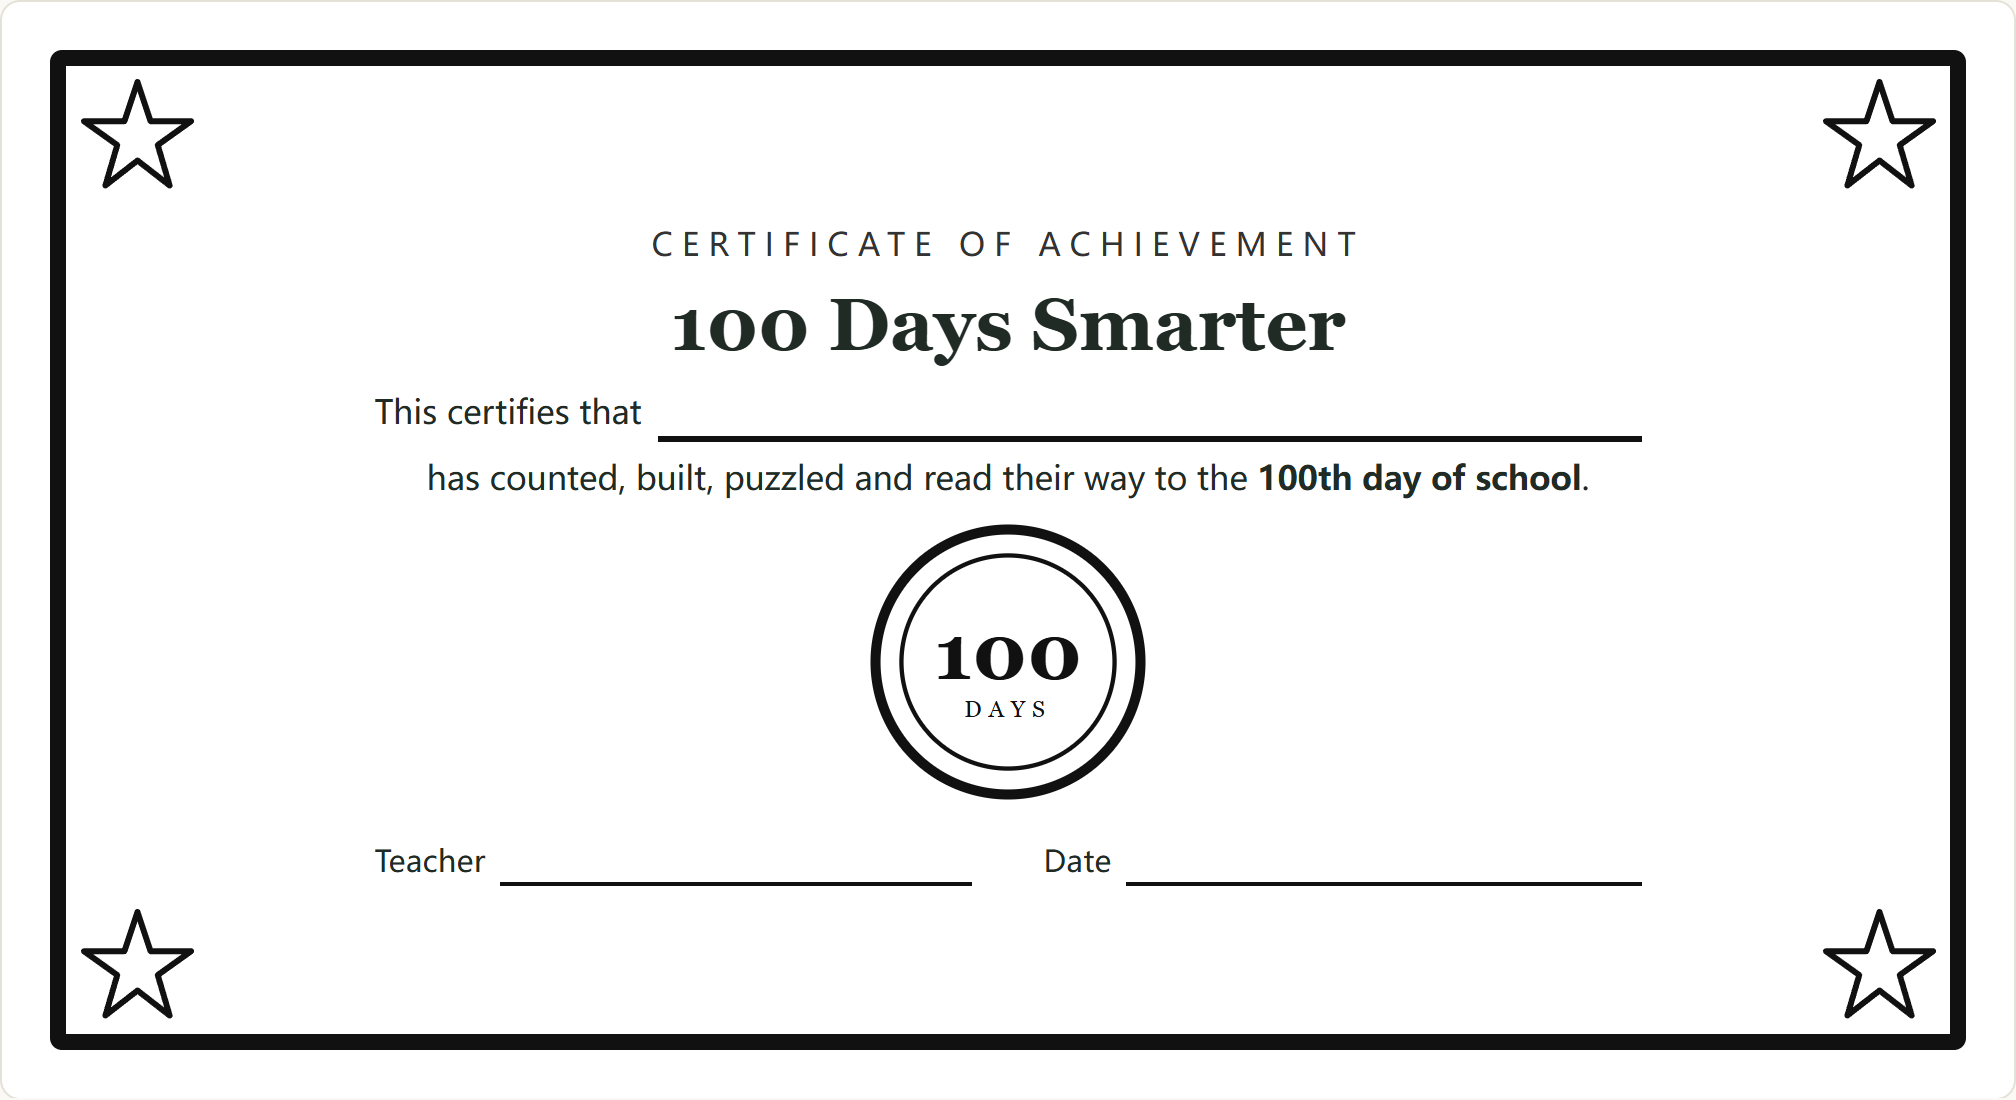
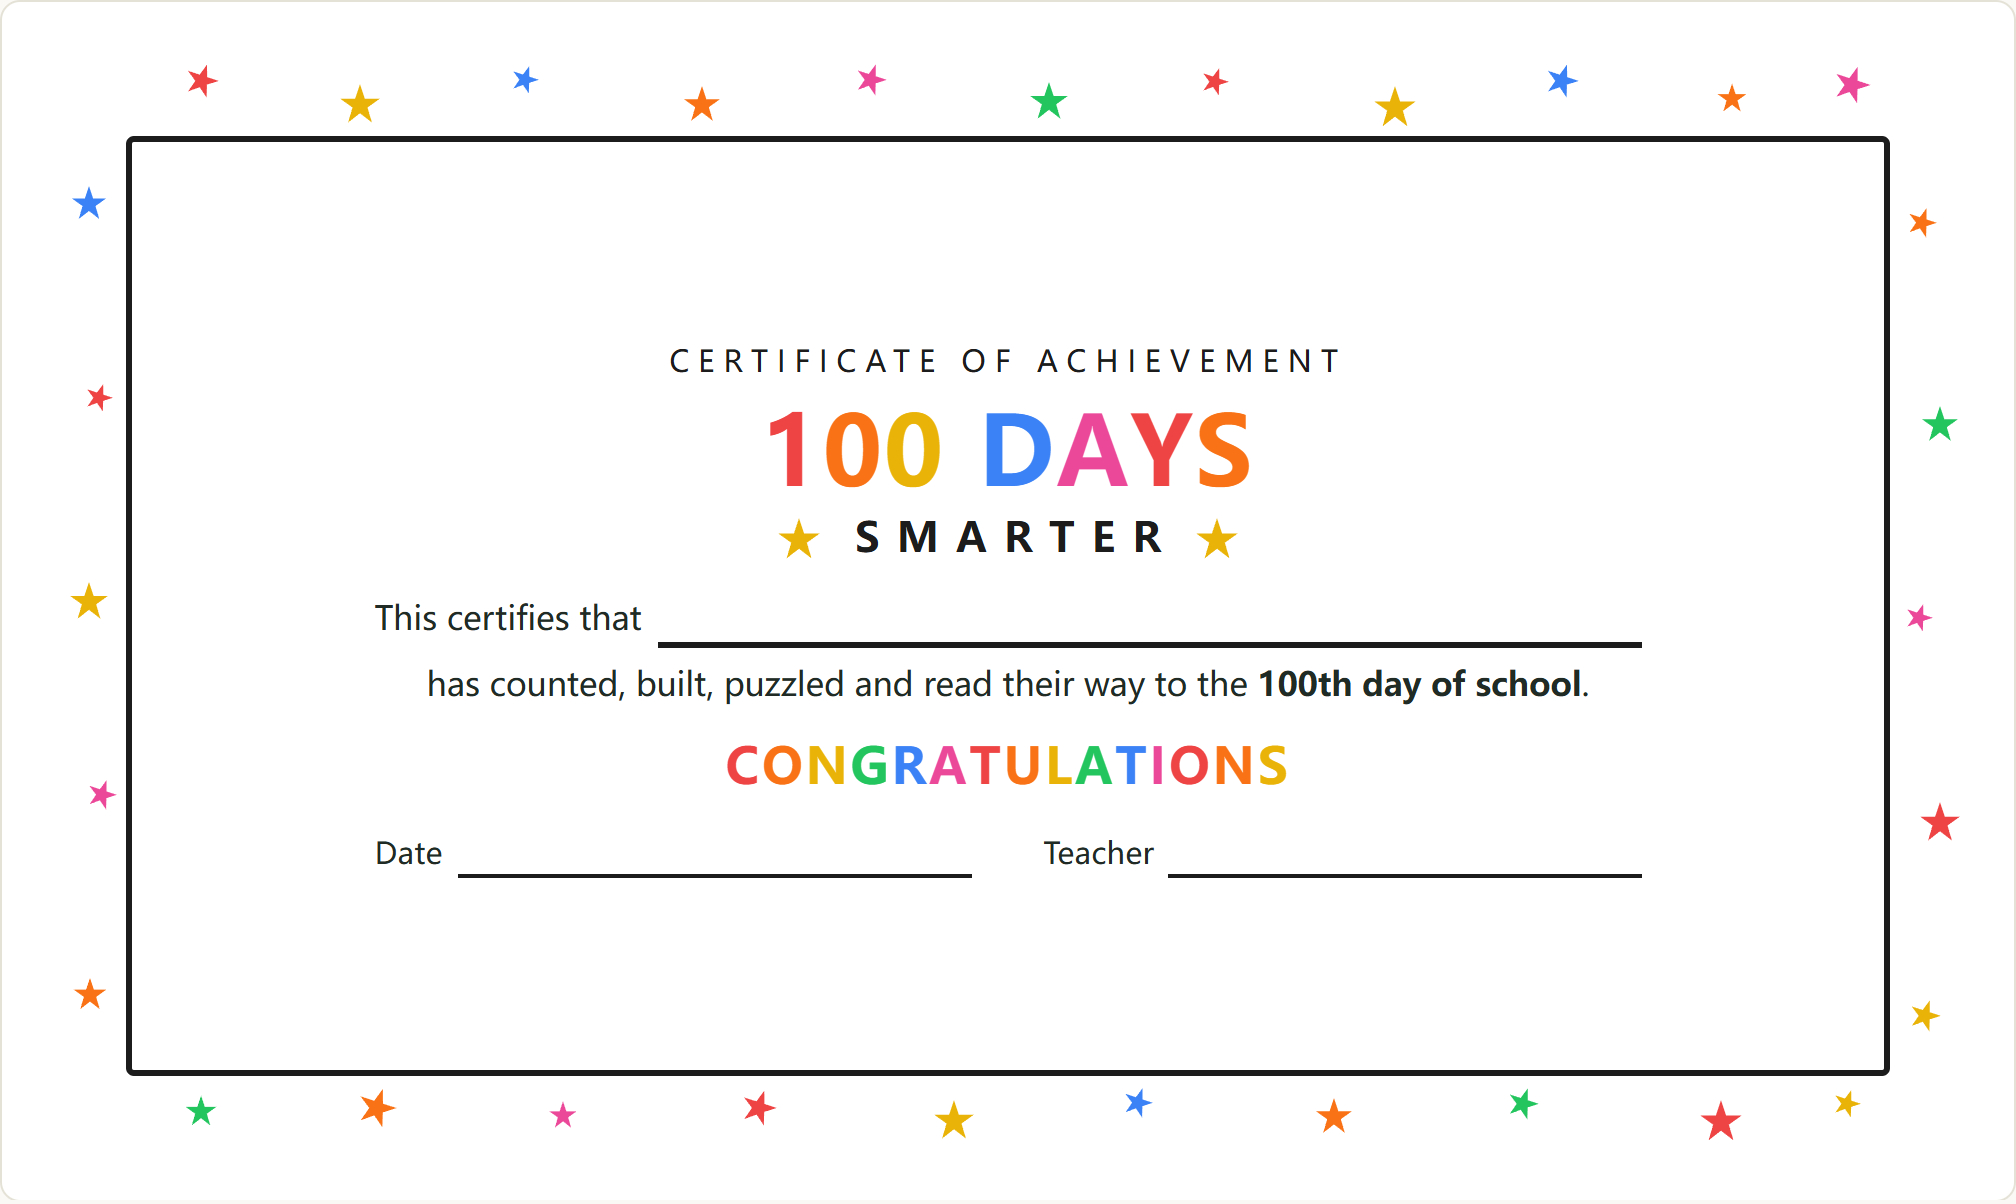
fix: 100th Day 证书按在位者实勘重设计——臆想 navy+gold 改市场彩虹语言
- 实勘三家（本地看图）：heylets(SERP#1)/kindergartenworks/superstar 全是
  幼儿园彩虹风（细框+星彩纸+彩虹粗字），无一家用正式奖状/奖章语言
- 重做：细黑框 + 四边 30 颗彩虹星彩纸带 + 100 DAYS 逐字彩虹 + SMARTER
  隔字黄星 + 彩虹 CONGRATULATIONS + Date/Teacher + print-color-adjust
- 坑：框 margin-top/bottom 塌穿无边界父级 → 顶/底星带被框白底吞掉；
  改父级 padding 造带修复
- 文案同步（meta/lead/tip/2FAQ/画廊/hub 卡），守卫换 rainbow 断言
- 637/637 绿，PNG 重拍 2016x1204

diff --git a/chartglade/src/data/hundredDay.ts b/chartglade/src/data/hundredDay.ts
@@ -213,21 +213,21 @@ export const hundredDayPages: PageDef[] = [
     h1: '100th Day of School Certificate',
     metaTitle: '100th Day of School Certificate — Free Printable Award | ChartGlade',
     metaDescription:
-      'Free printable 100th day of school certificate: a "100 Days Smarter" award with a colorable border and a 100 medallion — landscape, one per page, no sign-up.',
+      'Free printable 100th day of school certificate: a "100 Days Smarter" award with rainbow lettering and stars — landscape, one per page, no sign-up.',
     lead:
-      'The award that marks the day: "100 Days Smarter," a colorable star border, and a big 100 medallion the class colors before the ceremony. Print one per student on letter paper (landscape), write names in marker, sign, hand out — the whole ceremony fits inside a morning meeting.',
+      'The award that marks the day: "100 Days Smarter" in chunky rainbow lettering, star confetti around the border, and room for the name every kid is proud to see in marker. Print one per student on letter paper (landscape), sign, hand out — the whole ceremony fits inside a morning meeting.',
     introHeading: 'Running the ceremony',
     intro: [
       'The certificate earns its moment by being handed out, not mailed home. Read the wording aloud once ("has counted, built, puzzled and read their way to the one hundredth day of school"), then call students one by one while the class holds a hundred-applause — ten claps, ten times, which is its own counting exercise and burns exactly enough energy to settle the room afterward. Names in marker beat pens at this age; the teacher signature line and the date line make it official enough to go on the refrigerator, which is the actual venue.',
-      'Print it plain or let the class earn the decoration. The border stars and the medallion print as outlines, so a morning-work session can color certificates for everyone — each student decorates their own, which is faster than thirty unique awards and turns the certificate into a second artifact of the day. Cardstock takes marker without the buckle; copy paper works and reinforces the "this is real paper from real school" feel some families frame. One sheet per student, landscape, no cutting — the border is the edge.',
+      'Print it in color, or let a grayscale copier mumble the rainbow — the certificate reads either way. Teachers without color printers hand out one crayon job with it: color the stars before the assembly, which keeps the craft minute and makes every award theirs. Cardstock takes marker without the buckle and keeps the lettering vivid; copy paper works and reinforces the "this is real paper from real school" feel some families frame. One sheet per student, landscape, no cutting — the frame is the edge.',
     ],
     printNote: 'One letter page, landscape — one certificate per student, no cutting. Cardstock for marker names; copy paper works.',
     landscape: true,
     sheetImage: {
       src: '/images/100th-day-certificate-printable.png',
-      alt: 'Free printable 100th day of school certificate — a 100 Days Smarter award with a colorable star border, a 100 medallion, and name, teacher and date lines, on one landscape letter page.',
+      alt: 'Free printable 100th day of school certificate — a 100 Days Smarter award with rainbow lettering, star confetti around the frame, and name, teacher and date lines, on one landscape letter page.',
       width: 2016,
-      height: 1100,
+      height: 1204,
     },
     tips: [
       {
@@ -239,8 +239,8 @@ export const hundredDayPages: PageDef[] = [
         body: 'Ten sets of ten claps, counted out loud, right before the first name is called. It rehearses skip counting, fills the room with noise, and makes the first certificate feel like a finish line instead of a worksheet with good manners.',
       },
       {
-        title: 'Color a class set in morning work',
-        body: 'The outline-only design means the class can decorate every certificate during morning work. Students color their own or trade — either way the ceremony starts with work they already own, and no two awards look mass-produced.',
+        title: 'No color printer? Still works',
+        body: 'The rainbow prints as gray shades on a black-and-white copier and the certificate still reads. Teachers in that spot staple one crayon job to it — color the stars during morning work — so the award still carries a marker of the day and no two come out identical.',
       },
       {
         title: 'Pair it with the countdown chart',
@@ -250,7 +250,7 @@ export const hundredDayPages: PageDef[] = [
     faqs: [
       {
         q: 'What does the certificate say?',
-        a: 'The headline is "100 Days Smarter." The body reads: "This certifies that ____ has counted, built, puzzled and read their way to the 100th day of school." Teacher and date lines sit at the bottom, and the 100 medallion anchors the corner.',
+        a: 'The headline is "100 Days Smarter" — "100 DAYS" in rainbow letters over spaced "SMARTER." The body reads: "This certifies that ____ has counted, built, puzzled and read their way to the 100th day of school." Date and teacher lines sit at the bottom under a rainbow CONGRATULATIONS.',
       },
       {
         q: 'What grade is the certificate for?',
@@ -258,7 +258,7 @@ export const hundredDayPages: PageDef[] = [
       },
       {
         q: 'Does it print in color or black and white?',
-        a: 'It is designed black-and-white: outline stars, outline medallion, black text. The color arrives via crayons during morning work. A color copier makes the medallion gold, but nothing on the page requires it.',
+        a: 'It is designed in full color — rainbow lettering and star confetti on white. A black-and-white printer still produces a readable certificate (the rainbow becomes gray shades), and coloring the printed stars is the classic fallback decoration job.',
       },
       {
         q: 'Do I need to cut the certificates apart?',
@@ -279,7 +279,7 @@ const HUNDRED_DAY_BLURBS: Record<string, string> = {
   '100th-day-glasses': 'The photo of the day — a "100" frame kids color, cut and tape to fit, worn for the hallway parade.',
   'roll-to-100': 'One hundred chart, two games: the all-year countdown to day 100 and a two-dice addition race for the party.',
   'when-i-am-100-writing-prompt': 'The classic writing page — draw the face, finish the five sentence starters, bind the class book.',
-  '100th-day-certificate': 'The ceremony piece — "100 Days Smarter" award with a colorable border, handed out one per student.',
+  '100th-day-certificate': 'The ceremony piece — "100 Days Smarter" award in rainbow lettering, handed out one per student.',
 };
 for (const p of hundredDayPages) {
   p.variants = familyGallery(hundredDayPages, defHref(p), HUNDRED_DAY_BLURBS);

diff --git a/chartglade/src/data/hundredDay.test.ts b/chartglade/src/data/hundredDay.test.ts
@@ -180,11 +180,16 @@ describe.skipIf(!hubBuilt)('hundred-day dist guards (real dist)', () => {
     expect((html.match(/w100-model/g) ?? []).length).toBeGreaterThanOrEqual(5);
   });
 
-  it('the certificate ships the medallion and signature rows', () => {
+  it('the certificate ships the rainbow headline, confetti and signature rows', () => {
     const html = readFileSync(pageFiles.get('100th-day-certificate')!, 'utf8');
-    expect(html).toContain('100 Days Smarter');
-    expect(html).toContain('medal-number');
+    expect(html).toContain('100 Days Smarter'); // page lead
+    expect(html).toContain('cert-days'); // rainbow headline block
+    expect(html).toContain('SMARTER'); // spaced caps line
+    expect(html).toContain('cert-congrats');
+    expect((html.match(/cert-confetti/g) ?? []).length).toBeGreaterThanOrEqual(24);
+    expect(html).toContain('#ef4444'); // a rainbow hex survives to the sheet
     expect(html).toContain('cert-sig-line');
+    expect(html).not.toContain('medal-number'); // incumbent recon: no corporate seals
   });
 
   it('zero CJK leakage on the five new pages', () => {

diff --git a/docs/chartglade/PLAN.md b/docs/chartglade/PLAN.md
@@ -186,8 +186,8 @@
 | 2026-11-12 | **互动时长批次 chartglade 侧（👤 贴 CF Analytics："网站停留的时间太短了"→ 我初版敷衍被 👤 顶回："你应该分析然后想办法怎么让平均时长上去，从用户角度出发"→ 断链诊断：字母页在教学链中途死尾（只会单字母，接不了词）/ 首页埋没了生成器与整族页面；👤 拍板 P0+P1）**：① **26 字母页教案化（P1 核心）**——`src/data/cursiveConnections.ts` 新文件（2200 行 cursiveLetters.ts 不动）：每字母 = 出口笔顺小结（回声该字母 taught 词表，如 o "exits at the top"、f "joins from below the baseline, out of the long tail"）+ 三连接组讲法（round a,c,e,g,o,q / tall b,d,h,k,l,t / 其余+descender 特例 v-w-x）每组带真实单词例证（n·t in not、q·u in quick、l·l in belly…）+ 4 个连接练习对 + 6 个首词（x 特例 = 含 x 词 box/fox/X-ray/xylophone + wordsLabel 换标签）；26 条全手写非模板腔。屏上 = /cursive/[letter]/ after-slot 新 "How lowercase t connects" 段（summary+三组+收尾指向打印件）；打印 = CursiveLetterSheet 升级四件（Name/Date 头行、trace-cell 虚线中线 .midline、Connect-it 练习行、First words 单词行 Caveat 灰字）——对标 Inky/K5 的 connect 服务【实勘 11/12：Inky 每字母 connection groups + joining worksheets + words】。② 字母页 related 插教学梯三链接（how-to / sentences / name-tracing，hub 链前）——单字母页不再死尾。③ 首页补两段："Pages that make worksheets for you"（name-tracing/graph-paper/mad-minute+quiz）+ "The whole library"（times-table/sign-in-sheets/cootie-catcher/teaching-calendar/states-cursive/halloween/thanksgiving 7 族）——footer-only 家族首次可见；收尾段三入口。④ /times-table/1/ 进 memorize order 首位（"instant win that opens the unit"）；乘法页 printNote 讲清三页（chart+drill+答案）。⑤ **26 张 sheet PNG 重生成**（1410/1366/1322 → 1916/1872/1828/1826，LETTER_PNG_HEIGHT 全量跟进 + sheetImage alt 加 "join drills and first words"）。**事故入档：PNG regen 环境漂移**——sheet-images 全量重绘暴露 6 个非本批页（hundred-chart/decimal/number-line/addition/halloween×2）声明±2px 不符，HEAD PNG 对拍 = 声明值正确、漂移来自本轮渲染环境（±2px 方向还不一致）→ **54 张非本批 PNG 还原 HEAD，提交只带 26 张**；教训：声明追漂移=把渲染噪声烘进数据，二值对拍 HEAD 是判定器 | Claude | 134 页 build + 606/606 绿（sheetImages 守卫含 26 新高度） | C5 完成；P2 挂 👤 AITDK 拉量（cursive joins/words 词族，≥10K 线） |
 
 | 2026-11-16 | **曝光疑云同判复核 + 100th Day 立项（👤 "浏览已经是 0，7 天曝光只有 34"）**：①**复核与 11-14 行同判**【实勘 curl 11-16】——home/sitemap/robots/canonical 全绿、site: 收录在库（含 cursive 字母页/季节页）、网页 SERP 金词仍无前排（multiplication chart printable = dadsworksheets/mometrix；cursive chart = k5learning/mycursive；place value = TPT/Pinterest）——"34" = GSC 默认网页 tab 数字，图片通道读数在"搜索类型→图片" tab（读数时点遵 11-14 行：core update ~11/24 滚完再判）；②**季节缺口实锤：sitemap 117 页全查，100th Day of School 0 页**，圣诞 6 页已备 ✓；③**立项建议成立（👤 "开工"拍板）**——量【实测 👤 AITDK】100th day of school 9,900/KD13/CPC0.36 + activities 1,300/KD6，已见合计 11.2K 过 ≥10K 线（project 行截断待刷新）；SERP 实勘【实勘 11-16】在位者三类形态无铁幕：ideas listicle（happyheartsin1st/weareteachers 42-ideas，打印件散在文内）、printable hub（**superstarworksheets 100-days 页 = 唯一同形态在位者，sitemap 逆向老对手，他们有我们没有**）、craft 模板（TPT freebie/Twinkl glasses "100" 字形镜框 = 实锤最热打印物）；主题聚焦三问全过（老师/家长、课堂打印、季节簇先例 + /hundred-chart/ 内链收口）。**页面清单：/100th-day-of-school/ hub + glasses 模板 + Roll to 100（复用 hundred-chart 引擎）+ "When I am 100" writing prompt + certificate，规模对齐 Halloween 簇**；主战场放 activities/printables 文件型变体，裸词 9.9K informational 让给 AI Overview【推断】。上线窗口 = 现在~12 月初（各学区 100th day 落 1 月下旬~2 月上旬；若遵 core update ~11/24 后部署仍在窗内） | Claude | 立项判定入档（量/KD/实勘/主题三问全过） | 当日施工，见下一行 |
-| 2026-11-16 | **100th Day 簇施工完成（立项当日交付）**：+5 页 = **139 页**——`/100th-day-of-school/` hub（手搭，when-is-it 段诚实答期：无全国统一日、8 月开学学区落 1 月下旬/Labor-Day 学区落 2 月、雪天顺延）+ `/100th-day-glasses/`（SVG 镜框一次成型可剪：耳片-臂条-"1"-短臂-镜片-鼻梁-镜片-短臂-耳片全连通，2 折线 + 2 镜片孔 + 2 臂条）+ `/roll-to-100/`（复用 hundred-chart 引擎，双规则盒：全班倒数 + 双骰宾果）+ `/when-i-am-100-writing-prompt/`（画框 + 5 句式起头）+ `/100th-day-certificate/`（横版，奖章 + 四角星 + 签名行）。`data/hundredDay.ts` 4 PageDef，**词聚焦每页一词打头**（100th day of school glasses / roll to 100 / when I am 100 years old writing prompt / 100th day of school certificate）；子页词（100th day activities 等）随词族走标【赌注：未单独拉量】。内链双向：loose.ts hundred-chart ↔ roll-to-100，Footer/首页/teachingCalendar 1-2 月挂 hub。**637/637 绿**（新增 hundredDay 守卫：簇形状/词聚焦/meta 80-160/簇内互链/IP 禁词 + dist 级 5 URL canonical/sitemap/JSON-LD/横版仅证书/几何计数/零 CJK），4 PNG 拍片、尺寸回填，sitemap 图片声明 111→**115**，CONTENT_UPDATED → 11-16。**提交在 cootie-predev 未部署**——窗口现在~12 月初，等 core update ~11/24 后上仍在窗内，**部署闸门归 👤** | Claude | build 139 页 + 637/637 绿 + 4 PNG 目检（眼镜连通/格盘对齐/写作纸/证书） | 部署后 GSC 网址检查 5 URL；首页季节位 12 月下旬换 100th Day（槽位注释已留） |
-| 2026-11-16 | **GSC"网页会自动重定向"验证失败闭案（👤 贴 5 条 URL 报告：graph-paper/sight-words/cursive 三 hub 无斜杠 + http + www）**：5 条全是设计内规范化跳转【实测 curl】——无斜杠 308→带斜杠正式页（200）、http 裸域 301→https、www 301→裸域，全部单跳；sitemap-0 零无斜杠 `<loc>` + dist 全 HTML 零无斜杠 href = 非规范 URL 全来自外部（外链省斜杠/Google 自枚举），我方没喂；**判定 = 预期状态零修复项，此类报告永不点"验证修改"（Google 复查见重定向必判失败）；👤 网址检查 /graph-paper/ 已收录，闭案** | Claude | — | 以后同类报告直接引用本条，不重查 |
+| 2026-11-16 | **100th Day 簇施工完成（立项当日交付）**：+5 页 = **139 页**——`/100th-day-of-school/` hub（手搭，when-is-it 段诚实答期：无全国统一日、8 月开学学区落 1 月下旬/Labor-Day 学区落 2 月、雪天顺延）+ `/100th-day-glasses/`（SVG 镜框一次成型可剪：耳片-臂条-"1"-短臂-镜片-鼻梁-镜片-短臂-耳片全连通，2 折线 + 2 镜片孔 + 2 臂条）+ `/roll-to-100/`（复用 hundred-chart 引擎，双规则盒：全班倒数 + 双骰宾果）+ `/when-i-am-100-writing-prompt/`（画框 + 5 句式起头）+ `/100th-day-certificate/`（横版，彩虹字 + 四边星彩纸带 + 签名行）。`data/hundredDay.ts` 4 PageDef，**词聚焦每页一词打头**（100th day of school glasses / roll to 100 / when I am 100 years old writing prompt / 100th day of school certificate）；子页词（100th day activities 等）随词族走标【赌注：未单独拉量】。内链双向：loose.ts hundred-chart ↔ roll-to-100，Footer/首页/teachingCalendar 1-2 月挂 hub。**637/637 绿**（新增 hundredDay 守卫：簇形状/词聚焦/meta 80-160/簇内互链/IP 禁词 + dist 级 5 URL canonical/sitemap/JSON-LD/横版仅证书/几何计数/零 CJK），4 PNG 拍片、尺寸回填，sitemap 图片声明 111→**115**，CONTENT_UPDATED → 11-16。**提交在 cootie-predev 未部署**——窗口现在~12 月初，等 core update ~11/24 后上仍在窗内，**部署闸门归 👤** | Claude | build 139 页 + 637/637 绿 + 4 PNG 目检（眼镜连通/格盘对齐/写作纸/证书） | 部署后 GSC 网址检查 5 URL；首页季节位 12 月下旬换 100th Day（槽位注释已留） |
+| 2026-11-16 | **证书重设计（👤 打回"不打算搞点色彩？"→ 实勘在位者后重做）**：初版 navy+gold 奖章风是臆想【实勘 11-16 本地看图】：三家竞品无一家用正式奖状语言——heyletsmakestuff（SERP#1）= 细黑框 + 黄星彩纸 + "100 DAYS" 彩虹粗字 + "BRIGHTER" 隔字 + 全彩/涂色双版本；kindergartenworks = 涂色画布 + 怪物吉祥物；superstar = 粉框 + 彩虹 SCHOOL 大字母 + 蜡笔排。**市场语言 = 幼儿园彩虹风，奖章/绶带在位者全不用**。重做：细黑框 + 四边彩虹星彩纸带（30 颗确定性散布）+ "100 DAYS" 逐字彩虹 + "SMARTER" 隔字黄星 + 彩虹 CONGRATULATIONS + Date/Teacher，print-color-adjust 保打印；文案同步（meta/lead/tip/2 FAQ/画廊 blurb/hub 卡），守卫换 rainbow 断言 + 显式禁 medal-number。**坑：外边距塌穿**——框的 margin-top/bottom 穿过无边界父级塌到外面，顶/底彩纸带消失、星被框白底盖住（左右带不塌缩所以有星，肉眼先见"左右有顶没有"）；探针量 DOM 后改父级 padding 造带修复 | Claude | 637/637 绿 + PNG 重拍目检（2016x1204） | 打印色彩需浏览器开"背景图形"？否——SVG fill/文字色默认打印，仅背景色受剥除 || 2026-11-16 | **GSC"网页会自动重定向"验证失败闭案（👤 贴 5 条 URL 报告：graph-paper/sight-words/cursive 三 hub 无斜杠 + http + www）**：5 条全是设计内规范化跳转【实测 curl】——无斜杠 308→带斜杠正式页（200）、http 裸域 301→https、www 301→裸域，全部单跳；sitemap-0 零无斜杠 `<loc>` + dist 全 HTML 零无斜杠 href = 非规范 URL 全来自外部（外链省斜杠/Google 自枚举），我方没喂；**判定 = 预期状态零修复项，此类报告永不点"验证修改"（Google 复查见重定向必判失败）；👤 网址检查 /graph-paper/ 已收录，闭案** | Claude | — | 以后同类报告直接引用本条，不重查 |
 
 ## 2. 关键词资产表
 
